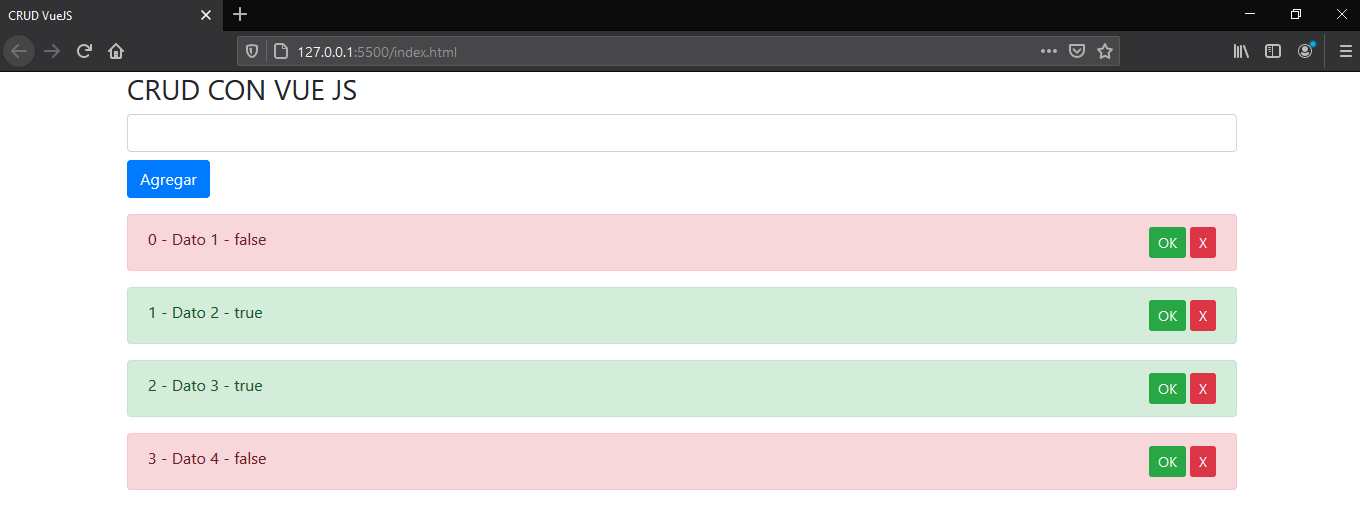
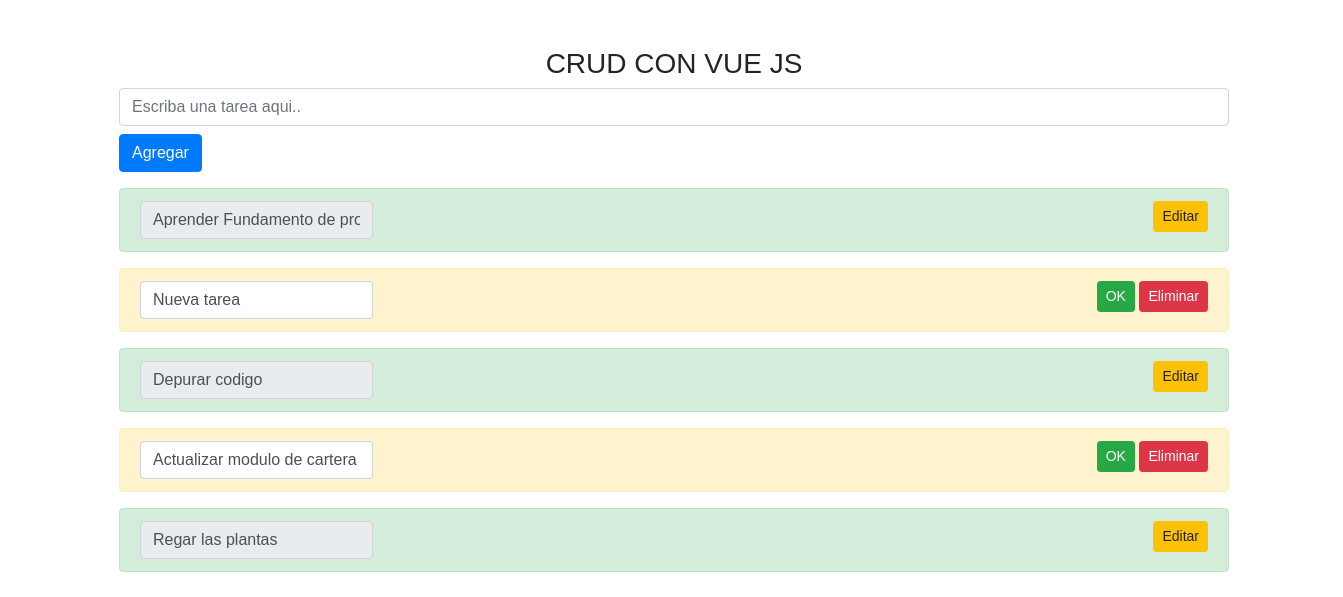
Update :v 2021

diff --git a/index.html b/index.html
@@ -1,29 +1,35 @@
 <!DOCTYPE html>
 <html lang="es">
-
 <head>
-    <meta charset="UTF-8">
-    <meta name="viewport" content="width=device-width, initial-scale=1.0">
-    <meta http-equiv="X-UA-Compatible" content="ie=edge">
+    <meta charset="UTF-8" />
+    <meta name="viewport" content="width=device-width, initial-scale=1.0" />
+    <meta http-equiv="X-UA-Compatible" content="ie=edge" />
     <title>CRUD VueJS</title>
     <link rel="stylesheet" href="https://stackpath.bootstrapcdn.com/bootstrap/4.5.2/css/bootstrap.min.css"
-        integrity="sha384-JcKb8q3iqJ61gNV9KGb8thSsNjpSL0n8PARn9HuZOnIxN0hoP+VmmDGMN5t9UJ0Z" crossorigin="anonymous">
+        integrity="sha384-JcKb8q3iqJ61gNV9KGb8thSsNjpSL0n8PARn9HuZOnIxN0hoP+VmmDGMN5t9UJ0Z" crossorigin="anonymous" />
 </head>
-
 <body>
-    <div class="container mt-5v" id="app">
-        <h3>{{title}}</h3>
-        <input type="text" class="form-control my-2" v-model="nuevaAlerta" @keyup.enter="agregarAlerta()">
+    <div class="container mt-5" id="app">
+        <h3 class="text-center">{{title}}</h3>
+        <input type="text" class="form-control my-2" v-model="nuevaAlerta" @keyup.enter="agregarAlerta()" placeholder="Escriba una tarea aqui.." />
         <button class="btn btn-primary" @click="agregarAlerta()">Agregar</button>
         <div class="mt-3" v-for="(alerta, index) in alertas">
-            <div role="alert" :class="['alert', alerta.estado ? 'alert-success' : 'alert-danger']">
+            <div role="alert" :class="['alert', alerta.estado ? 'alert-success' : 'alert-warning']">
                 <div class="d-flex justify-content-between aling-items-center">
                     <div>
-                        {{index}} - {{alerta.alerta}} - {{alerta.estado}}
+                        <input @change="almacenamientoLocal" class="form-control" :disabled="alerta.estado"
+                            v-model="alerta.alerta" type="text" />
                     </div>
                     <div>
-                        <button class="btn btn-success btn-sm" @click="editarAlerta(index)">OK</button>
-                        <button class="btn btn-danger btn-sm" @click="eliminarAlerta(index)">X</button>
+                        <button v-if="!alerta.estado" class="btn btn-success btn-sm" @click="procesarAlerta(index)">
+                            OK
+                        </button>
+                        <button v-if="alerta.estado" class="btn btn-warning btn-sm" @click="editarAlerta(index)">
+                            Editar
+                        </button>
+                        <button v-if="!alerta.estado" class="btn btn-danger btn-sm" @click="eliminarAlerta(index)">
+                            Eliminar
+                        </button>
                     </div>
                 </div>
             </div>
@@ -32,5 +38,4 @@
 </body>
 <script src="https://cdn.jsdelivr.net/npm/vue@2.5.16/dist/vue.js"></script>
 <script src="js/app.js"></script>
-
 </html>

diff --git a/js/app.js b/js/app.js
@@ -9,25 +9,31 @@ const app = new Vue({
     },
     methods: {
         agregarAlerta() {
-            this.alertas.push({
-                alerta: this.nuevaAlerta, estado: false
-            })
-            this.nuevaAlerta = '';
-            localStorage();
+            if(this.nuevaAlerta !=''){
+                this.alertas.push({
+                    alerta: this.nuevaAlerta, estado: false
+                })
+                this.nuevaAlerta = '';
+                this.almacenamientoLocal();
+            }
         },
 
-        editarAlerta(index) {
-            this.alertas[index].estado = true
-            localStorage();
+        procesarAlerta(index) {
+            this.alertas[index].estado = true;
+            this.almacenamientoLocal();
 
+        },
+        editarAlerta(index){
+            this.alertas[index].estado = false;
+            this.almacenamientoLocal();
         },
 
         eliminarAlerta(index) {
             this.alertas.splice(index, 1);
-            localStorage();
+            this.almacenamientoLocal();
         },
 
-        localStorage() {
+        almacenamientoLocal() {
             localStorage.setItem('lstorage-vue', JSON.stringify(this.alertas))
         }
     },
